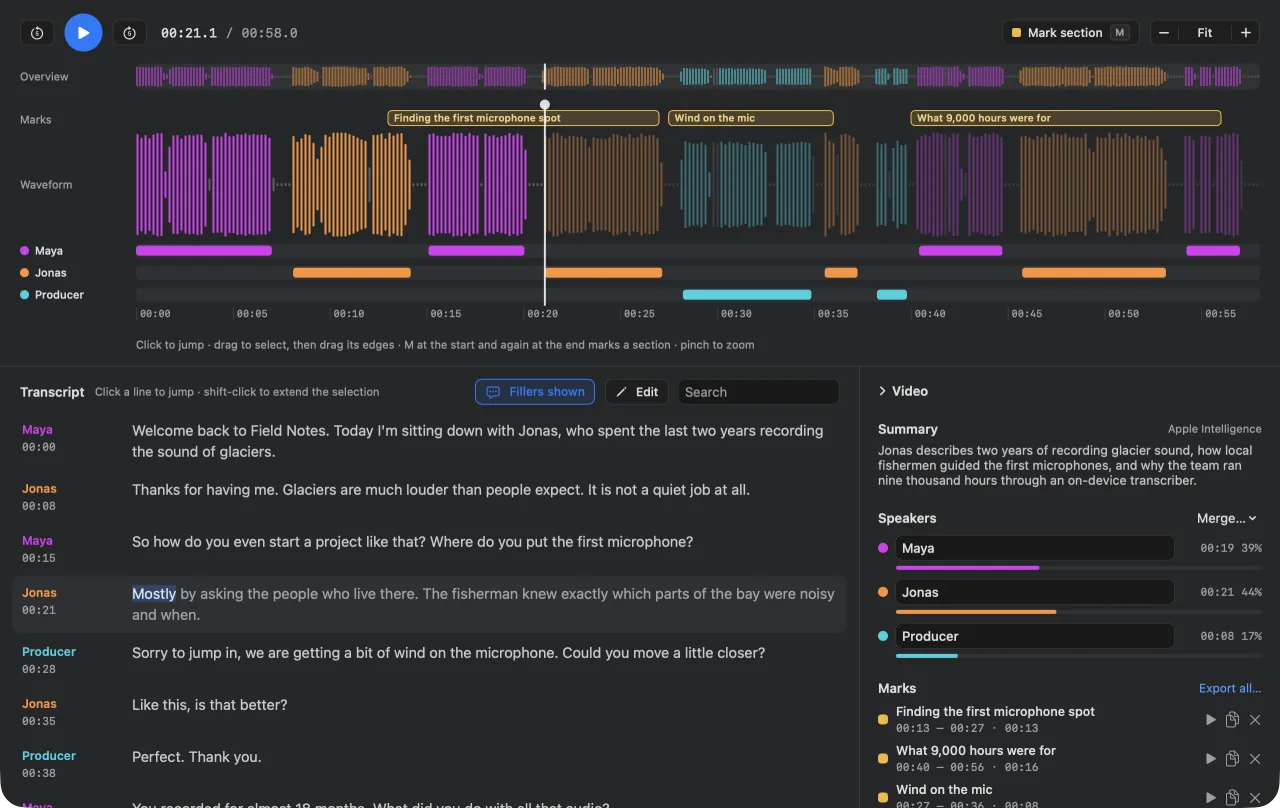
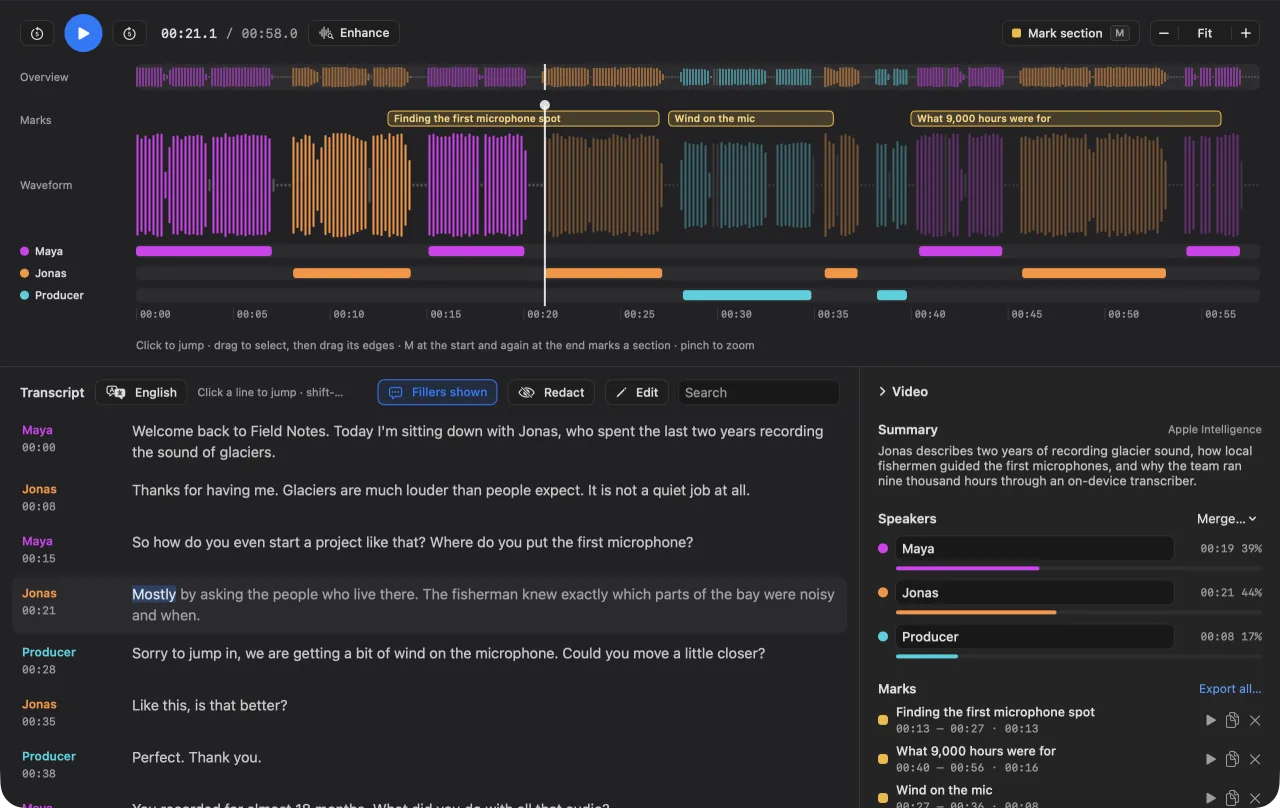
Move projects to the Trash, settings next to what they change (#6)
* Move projects to the Trash, quieter model loading, settings next to what they change

- Library: "Move to Trash…" (context menu and Delete key, with confirmation).
  Projects in the Murmur folder were rescanned on every load, so "Remove from
  Library" never removed them. Recordings take their audio folder along;
  imported media stays put. "Remove from Library" now only shows for projects
  saved elsewhere.
- Library: "Loading the speech models" moves to a small status line at the bottom.
- Project window: the toolbar keeps only Copy and Export. Enhance sits next to
  the play controls; Language and Redact sit in the transcript header.

* Refresh landing page and README screenshots for the new project window layout

---------

diff --git a/Murmur/UI/LibraryView.swift b/Murmur/UI/LibraryView.swift
@@ -64,6 +64,7 @@ struct LibraryView: View {
     @State private var selection: Set<URL> = []
     @State private var showOnboarding = false
     @State private var dropTargeted = false
+    @State private var pendingTrash: [URL] = []
 
     var shown: [LibraryItem] {
         let q = query.lowercased()
@@ -137,18 +138,6 @@ struct LibraryView: View {
                 .font(.system(size: 12))
                 .padding(10)
                 .background(Color.accentColor.opacity(0.08))
-            } else if models.isPreparing {
-                HStack(spacing: 10) {
-                    ProgressView(value: Double(models.preparedCount), total: Double(max(1, models.preparingTotal)))
-                        .frame(width: 80)
-                    Text(models.isFirstPreparation
-                         ? "Getting the speech models ready for this Mac's Neural Engine (\(models.preparedCount) of \(models.preparingTotal)). Files you open now wait for this."
-                         : "Loading the speech models (\(models.preparedCount) of \(models.preparingTotal)).")
-                    Spacer()
-                }
-                .font(.system(size: 12))
-                .padding(10)
-                .background(Color.accentColor.opacity(0.08))
             }
             if shown.isEmpty {
                 ContentUnavailableView {
@@ -164,6 +153,25 @@ struct LibraryView: View {
                 .frame(maxWidth: .infinity, maxHeight: .infinity)
             } else {
                 table
+            }
+            // Background work, so it sits quietly below the list like a status bar.
+            if models.requiredReady && models.isPreparing {
+                Divider()
+                HStack(spacing: 8) {
+                    ProgressView(value: Double(models.preparedCount), total: Double(max(1, models.preparingTotal)))
+                        .controlSize(.small)
+                        .frame(width: 60)
+                    Text(models.isFirstPreparation
+                         ? "Getting the speech models ready for this Mac's Neural Engine (\(models.preparedCount) of \(models.preparingTotal)). Files you open now wait for this."
+                         : "Loading the speech models (\(models.preparedCount) of \(models.preparingTotal)).")
+                        .lineLimit(1)
+                        .truncationMode(.tail)
+                    Spacer()
+                }
+                .font(.system(size: 11))
+                .foregroundStyle(.secondary)
+                .padding(.horizontal, 12)
+                .padding(.vertical, 6)
             }
         }
         .overlay {
@@ -216,10 +224,29 @@ struct LibraryView: View {
             Button("Open") { urls.forEach(open) }
             Button("Show in Finder") { NSWorkspace.shared.activateFileViewerSelecting(Array(urls)) }
             Divider()
-            Button("Remove from Library") { urls.forEach(app.forget) }
+            if !urls.contains(where: AppState.isInDefaultFolder) {
+                Button("Remove from Library") { urls.forEach(app.forget) }
+            }
+            Button("Move to Trash…") { pendingTrash = Array(urls) }
         } primaryAction: { urls in
             urls.forEach(open)
         }
+        .onDeleteCommand { if !selection.isEmpty { pendingTrash = Array(selection) } }
+        .confirmationDialog(trashTitle, isPresented: Binding(get: { !pendingTrash.isEmpty }, set: { if !$0 { pendingTrash = [] } })) {
+            Button("Move to Trash", role: .destructive) {
+                app.trash(pendingTrash)
+                selection.subtract(pendingTrash)
+                pendingTrash = []
+            }
+        } message: {
+            Text("Recordings take their audio with them. Imported media files stay where they are.")
+        }
+    }
+
+    var trashTitle: String {
+        pendingTrash.count == 1
+            ? "Move “\(items.first { $0.url == pendingTrash[0] }?.title ?? pendingTrash[0].deletingPathExtension().lastPathComponent)” to the Trash?"
+            : "Move \(pendingTrash.count) projects to the Trash?"
     }
 
     func open(_ url: URL) {

diff --git a/site/index.html b/site/index.html
@@ -87,14 +87,14 @@
         </a>
         <a class="button quiet" href="https://github.com/djui/murmur">View on GitHub</a>
       </div>
-      <p class="facts"><span data-version>Version 0.1.3</span> · macOS 26 or later · Apple silicon · Free</p>
+      <p class="facts"><span data-version>Version 0.1.5</span> · macOS 26 or later · Apple silicon · Free</p>
       <p class="facts dim">4 MB app. The speech models, 515 MB, download once on first launch.</p>
     </div>
     <figure class="hero-shot">
       <picture>
         <source type="image/webp" media="(prefers-color-scheme: dark)" srcset="assets/img/hero-dark-1280.webp 1280w, assets/img/hero-dark-2560.webp 2560w" sizes="(min-width: 960px) 76vw, 100vw">
         <img src="assets/img/hero-light-1280.webp" srcset="assets/img/hero-light-1280.webp 1280w, assets/img/hero-light-2560.webp 2560w" sizes="(min-width: 960px) 76vw, 100vw" width="2560" height="1615" fetchpriority="high"
-             alt="Murmur's project window. A waveform colored by speaker runs under three named marks, with one lane each for Maya, Jonas and Producer. Below it the transcript has the word being played highlighted, and a sidebar shows the summary and each speaker's talk time.">
+             alt="Murmur's project window. A waveform colored by speaker runs under three named marks, with one lane each for Maya, Jonas and Producer. Next to the play controls is Enhance; the transcript header holds the language, Fillers and Redact. The transcript has the word being played highlighted, and a sidebar shows the summary and each speaker's talk time.">
       </picture>
     </figure>
   </section>
@@ -229,7 +229,7 @@
         <div><dt>25 languages</dt><dd>Recognized from the sound, then checked against the words. For any other language Murmur offers Apple’s on-device transcriber.</dd></div>
         <div><dt>Fillers and noise</dt><dd>Um and uh are found and left out of exports. Optional enhancement cleans up a noisy room for listening, transcribing and export.</dd></div>
         <div><dt>Titles and summaries</dt><dd>Where Apple Intelligence is available, it names each project and writes a short summary, which exports can include.</dd></div>
-        <div><dt>Projects, not copies</dt><dd>A <code>.murmur</code> file points to your original audio or video instead of copying it, and finds it again if you move it.</dd></div>
+        <div><dt>Projects, not copies</dt><dd>A <code>.murmur</code> file points to your original audio or video instead of copying it, and finds it again if you move it. Move a project to the Trash from the library and a recording’s audio goes with it; imported files stay where they are.</dd></div>
         <div><dt>Colors you can tell apart</dt><dd>Nine speaker color schemes, including a color-blind safe one, each tested for contrast in light and dark.</dd></div>
       </dl>
     </div>
@@ -241,7 +241,7 @@
       <div class="dl-main">
         <img class="dl-icon" src="assets/img/icon-256.webp" alt="" width="112" height="112" loading="lazy" decoding="async">
         <div>
-          <h2 id="download-title"><span data-version-title>Murmur 0.1.3</span></h2>
+          <h2 id="download-title"><span data-version-title>Murmur 0.1.5</span></h2>
           <p>Free, for macOS 26 or later on Apple silicon. Notarized by Apple, and it updates itself.</p>
           <div class="get">
             <a class="button primary" href="https://github.com/djui/murmur/releases/latest" data-download>

diff --git a/Murmur/App/AppState.swift b/Murmur/App/AppState.swift
@@ -81,6 +81,33 @@ final class AppState {
         knownProjects = knownProjects.filter { $0 != url.path }
     }
 
+    /// Projects in the default folder are listed by scanning it, so forgetting them alone doesn't hide them.
+    static func isInDefaultFolder(_ url: URL) -> Bool {
+        url.deletingLastPathComponent().standardizedFileURL == ProjectFile.defaultFolder.standardizedFileURL
+    }
+
+    /// Moves projects to the Trash. A recording's audio folder goes with it, since Murmur made it;
+    /// imported media stays where the user keeps it.
+    func trash(_ urls: [URL]) {
+        let recordings = ProjectFile.defaultFolder.appendingPathComponent("Recordings", isDirectory: true).standardizedFileURL
+        var list = knownProjects
+        for url in urls {
+            if let media = (try? ProjectFile.read(at: url))?.media, media.isRecording {
+                let folder = URL(fileURLWithPath: media.path).deletingLastPathComponent().standardizedFileURL
+                if folder.deletingLastPathComponent() == recordings {
+                    try? FileManager.default.trashItem(at: folder, resultingItemURL: nil)
+                }
+            }
+            do {
+                try FileManager.default.trashItem(at: url, resultingItemURL: nil)
+                list.removeAll { $0 == url.path }
+            } catch {
+                presentError(error, title: "Murmur couldn’t move “\(url.deletingPathExtension().lastPathComponent)” to the Trash")
+            }
+        }
+        knownProjects = list
+    }
+
     /// Creates a project for a media file next to the other projects and opens it.
     func importMedia(_ url: URL) {
         Task {

diff --git a/Murmur/UI/TranscriptView.swift b/Murmur/UI/TranscriptView.swift
@@ -38,6 +38,10 @@ struct TranscriptView: View {
     var header: some View {
         HStack(spacing: 10) {
             Text("Transcript").font(.system(size: 13, weight: .semibold))
+            LanguageMenu(session: session, title: languageName(session.project.language))
+                .menuStyle(.button)
+                .buttonStyle(PillStyle())
+                .fixedSize()
             Text(session.editing ? "Type to fix words · press Return to keep a change · edited words are re-timed"
                                  : "Click a line to jump · shift-click to extend the selection")
                 .font(.system(size: 11)).foregroundStyle(.secondary).lineLimit(1)
@@ -47,6 +51,9 @@ struct TranscriptView: View {
                        isOn: Binding(get: { session.project.settings.showFillers },
                                      set: { v in session.update(v ? "Show Fillers" : "Hide Fillers") { $0.settings.showFillers = v } }))
                 .help("Show or hide um, uh and hmm in the transcript")
+            PillToggle(title: "Redact", systemImage: session.isFindingDetails ? "hourglass" : "eye.slash",
+                       isOn: Binding(get: { session.isRedacting }, set: { session.setRedact($0) }))
+                .help("Hide names, phone numbers, addresses and other personal details in the transcript, copies, exports and clips (Redact)")
             PillToggle(title: session.editing ? "Done" : "Edit", systemImage: "pencil", isOn: $session.editing)
             TextField("Search", text: $session.search)
                 .textFieldStyle(.roundedBorder)

diff --git a/Murmur/UI/MainView.swift b/Murmur/UI/MainView.swift
@@ -75,16 +75,8 @@ struct MainView: View {
     }
 
     @ToolbarContentBuilder var toolbar: some ToolbarContent {
+        // Only what sends the project somewhere; settings live next to what they change.
         ToolbarItemGroup(placement: .primaryAction) {
-            Toggle(isOn: Binding(get: { session.project.settings.enhance }, set: { session.setEnhance($0) })) {
-                Label("Enhance", systemImage: "waveform.badge.magnifyingglass")
-            }
-            .help("Clean up the audio for playback, transcription and export (Clear)")
-            Toggle(isOn: Binding(get: { session.isRedacting }, set: { session.setRedact($0) })) {
-                Label("Redact", systemImage: session.isFindingDetails ? "hourglass" : "eye.slash")
-            }
-            .help("Hide names, phone numbers, addresses and other personal details in the transcript, copies, exports and clips (Redact)")
-            LanguageMenu(session: session, title: languageName(session.project.language))
             Menu {
                 ForEach(TextFormat.copyFormats) { format in
                     Button {

diff --git a/Murmur/UI/TimelineView.swift b/Murmur/UI/TimelineView.swift
@@ -62,6 +62,9 @@ struct TransportBar: View {
             }
             .font(.system(size: 13, design: .monospaced))
             .padding(.leading, 4)
+            PillToggle(title: "Enhance", systemImage: "waveform.badge.magnifyingglass",
+                       isOn: Binding(get: { session.project.settings.enhance }, set: { session.setEnhance($0) }))
+                .help("Clean up the audio for playback, transcription and export (Clear)")
             Spacer()
             MarkSectionButton(session: session)
             ZoomControl(session: session)
